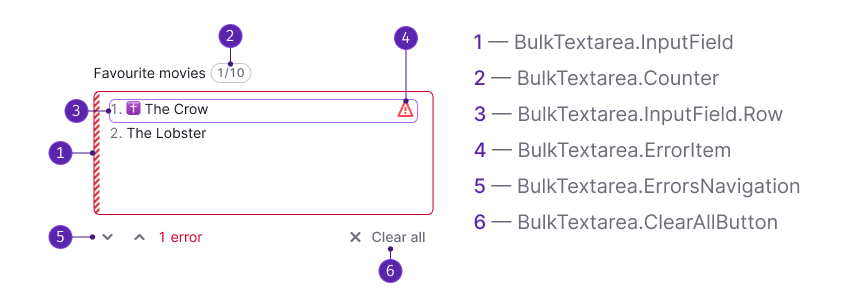
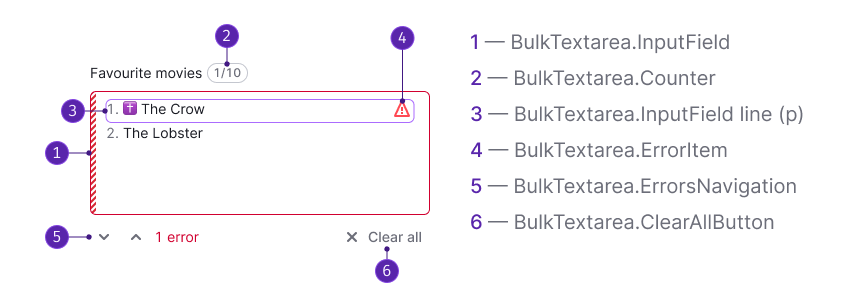
[docs] small updates after review

diff --git a/stories/components/bulk-textarea/docs/examples/basic-usage.tsx b/stories/components/bulk-textarea/docs/examples/basic-usage.tsx
@@ -9,7 +9,7 @@ const validateRow = (line: string, lines: string[]) => {
 
   if (line.includes(']') || line.includes('[')) {
     isValid = false;
-    errorMessage = 'Line has invalid charsets';
+    errorMessage = 'Please remove invalid charsets from the movie name.';
   }
 
   return {
@@ -32,12 +32,12 @@ const Demo = () => {
         value={value}
         onChange={setValue}
         lineValidation={validateRow}
-        maxLines={30}
-        size={'m'}
+        maxLines={10}
+        size={'l'}
         linesDelimiters={[',']}
         readonly={false}
         disabled={false}
-        placeholder={'Placeholder'}
+        placeholder={'Enter or paste a list using comma or Enter'}
         minRows={2}
         maxRows={10}
         validateOn={['blur']}
@@ -49,14 +49,14 @@ const Demo = () => {
         lineProcessing={lineProcessing}
       >
         <Flex alignItems='center' justifyContent='flex-start' mb={2} gap={1}>
-          <Text tag={'label'} size={200} id={'keywords-label'}>
-            list of keywords
+          <Text tag={'label'} size={300} id={'keywords-label'}>
+            Favourite movies
           </Text>
           <BulkTextarea.Counter />
         </Flex>
         <BulkTextarea.InputField
           aria-labelledby={'keywords-label'}
-          commonErrorMessage={'some global error'}
+          commonErrorMessage={'Please enter correct movie names.'}
         />
         <Flex alignItems='center' justifyContent='space-between' mt={2}>
           <BulkTextarea.ErrorsNavigation />

diff --git a/website/docs/components/bulk-textarea/bulk-textarea-a11y.md b/website/docs/components/bulk-textarea/bulk-textarea-a11y.md
@@ -18,7 +18,7 @@ Table: Roles and attributes
 |                                                | `aria-labelledby="IDREF"`                                | Refers to the element that contains the label of field.                                                                                                        |
 |                                                | `aria-describedby="IDREF"`                               | Gives the item an accessible description by referring to the `aria-errormessage`, the tooltip, or both, describing the primary message or purpose of the item. |
 | `BulkTextarea.InputField > div > p`            | `aria-invalid="true"`                                    | A row gets this property when it gets the `invalid` status.                                                                                                    |
-|                                                | `aria-errormessage="[Your message here]"`                | Identifies the element that provides an error message for the .                                                                                                |
+|                                                | `data-errormessage="Your message here"`                  | Adds an error message for a line with `invalid` state. By default it's `undefined`.                                                                                                        |
 | `BulkTextarea.Counter`                         | `aria-label="{n} out of {n}"`                            | Sets an accessible name for the element.                                                                                                                       |
 |                                                | `"aria-label={n} out of {n}, limit reached"`             | Sets an accessible name for the element.                                                                                                                       |
 |                                                | `"aria-label={n} out of {n}, limit exceeded"`            | Sets an accessible name for the element.                                                                                                                       |
@@ -39,10 +39,10 @@ For detailed information about keyboard support for the Input, refer to the [Key
 Error messages aren't set by default in the component.
 :::
 
-Configure error messages for tooltips so they are visible to sighted users and announced by assistive technologies:
+Configure error messages for tooltips so they're visible to sighted users and announced by assistive technologies:
 
 - A message for specific errors in invalid rows, based on your validation rules.
-- A message for the entire input if you’re validating the entire field.
+- A message for the whole input if you’re validating the entire field.
 
 ## Other recommendations
 

diff --git a/website/docs/components/bulk-textarea/bulk-textarea.md b/website/docs/components/bulk-textarea/bulk-textarea.md
@@ -19,7 +19,7 @@ Component consists of the following:
 
 - `BulkTextarea.InputField`
 - `BulkTextarea.Counter`
-- `BulkTextarea.InputField.Row`
+- `BulkTextarea.InputField line (p)`
 - `BulkTextarea.ErrorItem`
 - `BulkTextarea.ErrorsNavigation`
 - `BulkTextarea.ClearAllButton`
@@ -116,11 +116,11 @@ BulkTextarea has the same states and styles as [Textarea](/components/textarea/t
 
 ### Validation
 
-You can define your own validation rules for the input: on submit, on blur, or on row blur. By default, our component uses on blur validation. **UPDATE THIS WHEN EXAMPLE WILL BE READY**
+You can define your own validation rules for the input: on submit, on blur, or on row blur. By default, our component uses on blur validation.
 
 ### Tooltips
 
-If there are invalid values in the textarea after validation, you can display a tooltip for the entire textarea or for individual rows when the cursor hovers over them or when the caret is positioned in the line.
+If the textarea has invalid values after validation, show a tooltip for the whole field or for specific lines when hovered or when the caret is in the line.
 
 ![](static/bulktextarea-tooltip.png)
 
